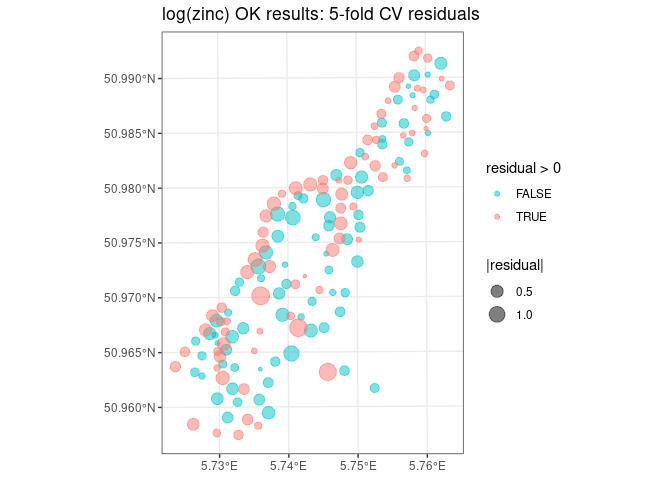
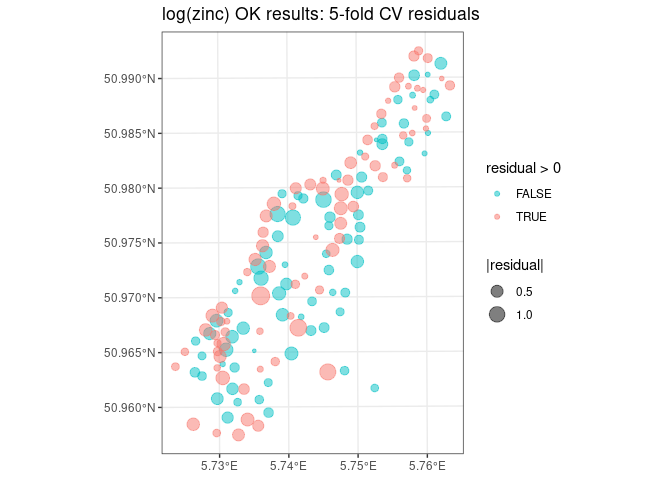
Updated url

diff --git a/demos/geo/Week8LabGeostatistics.md b/demos/geo/Week8LabGeostatistics.md
@@ -622,7 +622,7 @@ meuse.riv <- st_as_sf(data.frame(meuse.riv), coords=1:2, crs=st_crs(meuse)) %>%
 ggplot(data=meuse) + geom_sf() + geom_sf(data=meuse.riv)
 ```
 
-![](Week8LabGeostatistics_files/figure-html/meuse plots-1.png)
+![](Week8LabGeostatistics_files/figure-html/meuse plots-1.png)<!-- -->
 
 ```r
 # The river is too long compared to the study area
@@ -637,7 +637,7 @@ meuse.riv <- st_crop(meuse.riv, st_bbox(st_buffer(meuse, 500)))
 ggplot(data=meuse) + geom_sf() + geom_sf(data=meuse.riv)
 ```
 
-![](Week8LabGeostatistics_files/figure-html/meuse plots-2.png)
+![](Week8LabGeostatistics_files/figure-html/meuse plots-2.png)<!-- -->
 
 ```r
 # Color the zinc data based on the native scale
@@ -652,7 +652,7 @@ ggplot(data=meuse) +
   theme_bw()
 ```
 
-![](Week8LabGeostatistics_files/figure-html/meuse plots-3.png)
+![](Week8LabGeostatistics_files/figure-html/meuse plots-3.png)<!-- -->
 
 ```r
 # Color the zinc data based on the log scale
@@ -665,7 +665,7 @@ ggplot(data=meuse) +
   theme_bw()
 ```
 
-![](Week8LabGeostatistics_files/figure-html/meuse plots-4.png)
+![](Week8LabGeostatistics_files/figure-html/meuse plots-4.png)<!-- -->
 
 ```r
 # Make a bubble plot
@@ -678,7 +678,7 @@ ggplot(data=meuse) +
   theme_bw()
 ```
 
-![](Week8LabGeostatistics_files/figure-html/meuse plots-5.png)
+![](Week8LabGeostatistics_files/figure-html/meuse plots-5.png)<!-- -->
 
 ```r
 # Put these ideas together:  Size and color based on native scale
@@ -690,7 +690,7 @@ ggplot(data=meuse) +
   theme_bw()
 ```
 
-![](Week8LabGeostatistics_files/figure-html/meuse plots-6.png)
+![](Week8LabGeostatistics_files/figure-html/meuse plots-6.png)<!-- -->
 
 ### Estimating variograms
 
@@ -733,21 +733,21 @@ also uploaded to the course Canvas site.
 plot(variogram(log(zinc)~1, meuse, cloud=TRUE))
 ```
 
-![](Week8LabGeostatistics_files/figure-html/meuse empirical variogram-1.png)
+![](Week8LabGeostatistics_files/figure-html/meuse empirical variogram-1.png)<!-- -->
 
 ```r
 # plot binned variogram (the default)
 plot(variogram(log(zinc)~1, meuse))
 ```
 
-![](Week8LabGeostatistics_files/figure-html/meuse empirical variogram-2.png)
+![](Week8LabGeostatistics_files/figure-html/meuse empirical variogram-2.png)<!-- -->
 
 ```r
 # you can also show the number of points in each bin
 plot(variogram(log(zinc)~1, meuse), pl=TRUE)
 ```
 
-![](Week8LabGeostatistics_files/figure-html/meuse empirical variogram-3.png)
+![](Week8LabGeostatistics_files/figure-html/meuse empirical variogram-3.png)<!-- -->
 
 ```r
 # save the variogram cloud 
@@ -769,7 +769,7 @@ ggplot(data=vgm.meuse, aes(x = dist, y = gamma)) +
 ## `geom_smooth()` using method = 'gam' and formula 'y ~ s(x, bs = "cs")'
 ```
 
-![](Week8LabGeostatistics_files/figure-html/meuse empirical variogram-4.png)
+![](Week8LabGeostatistics_files/figure-html/meuse empirical variogram-4.png)<!-- -->
 
 
 #### Modeled variogram
@@ -811,7 +811,7 @@ v.fit
 plot(v, v.fit)
 ```
 
-![](Week8LabGeostatistics_files/figure-html/meuse modeled variogram-1.png)
+![](Week8LabGeostatistics_files/figure-html/meuse modeled variogram-1.png)<!-- -->
 
 ### Kriging
 
@@ -851,7 +851,7 @@ lzn.kr <- krige(log(zinc)~1, meuse, newdata = meuse.grid, model = v.fit)
 pl1 <- plot(lzn.kr["var1.pred"], main = "OK prediction of log(zinc)")
 ```
 
-![](Week8LabGeostatistics_files/figure-html/meuse ordinary kriging-1.png)
+![](Week8LabGeostatistics_files/figure-html/meuse ordinary kriging-1.png)<!-- -->
 
 ```r
 # calculate then plot kriging standard errors
@@ -859,7 +859,7 @@ lzn.kr$se = sqrt(lzn.kr$var1.var)
 pl2 <- plot(lzn.kr["se"], main = "OK prediction error")
 ```
 
-![](Week8LabGeostatistics_files/figure-html/meuse ordinary kriging-2.png)
+![](Week8LabGeostatistics_files/figure-html/meuse ordinary kriging-2.png)<!-- -->
 
 #### Universal kriging (UK)
 
@@ -895,7 +895,7 @@ m.uk
 plot(v.uk, model = m.uk)
 ```
 
-![](Week8LabGeostatistics_files/figure-html/meuse universal kriging-1.png)
+![](Week8LabGeostatistics_files/figure-html/meuse universal kriging-1.png)<!-- -->
 
 ```r
 # fit the universal kriging model, predicting on the meuse.grid
@@ -914,13 +914,13 @@ lzn.kr$se = sqrt(lzn.kr$var1.var)
 pl3 <- plot(lzn.kr["var1.pred"], main = "UK prediction of log-zinc")
 ```
 
-![](Week8LabGeostatistics_files/figure-html/meuse universal kriging-2.png)
+![](Week8LabGeostatistics_files/figure-html/meuse universal kriging-2.png)<!-- -->
 
 ```r
 pl4 <- plot(lzn.kr["se"], main = "UK prediction error")
 ```
 
-![](Week8LabGeostatistics_files/figure-html/meuse universal kriging-3.png)
+![](Week8LabGeostatistics_files/figure-html/meuse universal kriging-3.png)<!-- -->
 
 ### Cross-validating the kriging model using the built-in CV function `krige.cv`
 
@@ -1003,7 +1003,7 @@ meuse.CV5 <- krige.cv2(log(zinc)~1, meuse, model = v.fit, nmax = 40, nfold=5)
 krige.cv.bubble(meuse.CV5,"log(zinc) OK results: 5-fold CV residuals")
 ```
 
-![](Week8LabGeostatistics_files/figure-html/meuse cross-validation-1.png)
+![](Week8LabGeostatistics_files/figure-html/meuse cross-validation-1.png)<!-- -->
 
 ```r
 # ordinary kriging, LOOCV
@@ -1013,7 +1013,7 @@ meuse.CVLOO <- krige.cv2(log(zinc)~1, meuse, model = v.fit, nmax = 40)
 krige.cv.bubble(meuse.CVLOO, "log(zinc) OK results: LOO CV residuals")
 ```
 
-![](Week8LabGeostatistics_files/figure-html/meuse cross-validation-2.png)
+![](Week8LabGeostatistics_files/figure-html/meuse cross-validation-2.png)<!-- -->
 
 ```r
 # universal kriging, 5-fold cross-validation 
@@ -1025,7 +1025,7 @@ meuse.CV5uk <-
 krige.cv.bubble(meuse.CV5uk,"log(zinc) UK on sqrt(dist): 5-fold CV residuals")
 ```
 
-![](Week8LabGeostatistics_files/figure-html/meuse cross-validation-3.png)
+![](Week8LabGeostatistics_files/figure-html/meuse cross-validation-3.png)<!-- -->
 
 ```r
 # universal kriging, LOOCV
@@ -1036,7 +1036,7 @@ meuse.CVLOOuk <- krige.cv2(log(zinc)~sqrt(dist), meuse,
 krige.cv.bubble(meuse.CVLOOuk,"log(zinc) UK on sqrt(dist): LOO CV residuals")
 ```
 
-![](Week8LabGeostatistics_files/figure-html/meuse cross-validation-4.png)
+![](Week8LabGeostatistics_files/figure-html/meuse cross-validation-4.png)<!-- -->
 
 ```r
 # calculate and compare performance statistics across CVs
@@ -1059,9 +1059,9 @@ Table: Summary of kriging cross-validation results for log(zinc).
 
 |Description                 |   RMSE| MSE_based_R2|
 |:---------------------------|------:|------------:|
-|OK: 5-fold CV               | 0.3952|       0.6984|
+|OK: 5-fold CV               | 0.4034|       0.6858|
 |OK: LOO CV                  | 0.3869|       0.7109|
-|UK on sqrt(dist): 5-fold CV | 0.3679|       0.7386|
+|UK on sqrt(dist): 5-fold CV | 0.3887|       0.7083|
 |UK on sqrt(dist): LOO CV    | 0.3829|       0.7169|
 
 
@@ -1255,7 +1255,7 @@ la_grid
 # we do not want to predict there.
 
 # specify url for a zip file for access to a shapefile
-#url <- "https://www.naturalearthdata.com/download/10m/physical/ne_10m_land.zip"
+#url <- "https://www.naturalearthdata.com/http//www.naturalearthdata.com/download/10m/physical/ne_10m_land.zip"
 url <- 'https://www.qgistutorials.com/downloads/ne_10m_land.zip'
 
 # download zip file
@@ -1300,7 +1300,7 @@ land <- suppressWarnings(st_crop(land,st_bbox(la_grid)))
 ggplot(land) + geom_sf(aes(fill=featurecla))
 ```
 
-![](Week8LabGeostatistics_files/figure-html/convert LA grid to sf-1.png)
+![](Week8LabGeostatistics_files/figure-html/convert LA grid to sf-1.png)<!-- -->
 
 ```r
 # Remove water points from la_grid
@@ -1329,7 +1329,7 @@ ggplot(data=fall) +
   theme_bw()
 ```
 
-![](Week8LabGeostatistics_files/figure-html/plot fall snapshot-1.png)
+![](Week8LabGeostatistics_files/figure-html/plot fall snapshot-1.png)<!-- -->
 
 ```r
 # we show a similar color and size varying bubble plot of the data
@@ -1340,7 +1340,7 @@ ggplot(data=fall) +
   theme_bw()
 ```
 
-![](Week8LabGeostatistics_files/figure-html/plot fall snapshot-2.png)
+![](Week8LabGeostatistics_files/figure-html/plot fall snapshot-2.png)<!-- -->
 
 ### Mapping the data
 
@@ -1390,7 +1390,7 @@ g <- ggmap(map, darken = c(0.5, "white")) + theme_void()
 g + ggtitle("Sample Map of Los Angeles for \n the area covered by the snapshot data")
 ```
 
-![](Week8LabGeostatistics_files/figure-html/LA Stamen map-1.png)
+![](Week8LabGeostatistics_files/figure-html/LA Stamen map-1.png)<!-- -->
 
 ```r
 # Add snapshot locations to the map with colors for values
@@ -1407,7 +1407,7 @@ g + geom_point(data=fall,
     ggtitle("Map of Los Angeles \n with the fall snapshot data")
 ```
 
-![](Week8LabGeostatistics_files/figure-html/LA Stamen map-2.png)
+![](Week8LabGeostatistics_files/figure-html/LA Stamen map-2.png)<!-- -->
 
 ```r
 # NOx on log scale
@@ -1420,7 +1420,7 @@ g + geom_point(data=fall,
   theme_bw()
 ```
 
-![](Week8LabGeostatistics_files/figure-html/LA Stamen map-3.png)
+![](Week8LabGeostatistics_files/figure-html/LA Stamen map-3.png)<!-- -->
 
 Note, in comparing the above map to the one displayed in Figure 2b of Mercer, a
 few observations are in order:
@@ -1447,7 +1447,7 @@ g + geom_point(data=la_grid,aes(x = st_coordinates(la_grid)[,'X'],
   theme_bw()
 ```
 
-![](Week8LabGeostatistics_files/figure-html/plot the grid on the map-1.png)
+![](Week8LabGeostatistics_files/figure-html/plot the grid on the map-1.png)<!-- -->
 
 
 ### Estimation using the snapshot data: Kriging using the common model
@@ -1494,7 +1494,7 @@ vf.fit
 plot(vf, vf.fit)
 ```
 
-![](Week8LabGeostatistics_files/figure-html/fall estimate variogram-1.png)
+![](Week8LabGeostatistics_files/figure-html/fall estimate variogram-1.png)<!-- -->
 
 ```r
 # now repeat for the UK model
@@ -1525,7 +1525,7 @@ vfc.fit
 plot(vfc, vfc.fit)
 ```
 
-![](Week8LabGeostatistics_files/figure-html/fall estimate variogram-2.png)
+![](Week8LabGeostatistics_files/figure-html/fall estimate variogram-2.png)<!-- -->
 
 ```r
 # Mercer used an exponential variogram, so refit the variogram using that:
@@ -1548,7 +1548,7 @@ vfc.fit
 plot(vfc, vfc.fit)
 ```
 
-![](Week8LabGeostatistics_files/figure-html/fall estimate variogram-3.png)
+![](Week8LabGeostatistics_files/figure-html/fall estimate variogram-3.png)<!-- -->
 
 Observe the exponential and spherical fits are almost indistinguishable
 visually.  They are also different from the Mercer paper.  This may be due to
@@ -1586,14 +1586,14 @@ fall.CVcluster.uk <- krige.cv2(ln_nox ~ D2A1 + A1_50 + A23_400 + Pop_5000 + D2C 
 krige.cv.bubble(st_transform(fall.CVcluster.ok,latlong_proj),'ln(NOx) OK: clusterwise CV residuals')
 ```
 
-![](Week8LabGeostatistics_files/figure-html/krige.cv in LA-1.png)
+![](Week8LabGeostatistics_files/figure-html/krige.cv in LA-1.png)<!-- -->
 
 ```r
 # bubble plot of UK residuals
 krige.cv.bubble(st_transform(fall.CVcluster.uk,latlong_proj),'ln(NOx) UK: clusterwise CV residuals')
 ```
 
-![](Week8LabGeostatistics_files/figure-html/krige.cv in LA-2.png)
+![](Week8LabGeostatistics_files/figure-html/krige.cv in LA-2.png)<!-- -->
 
 ```r
 # calculate and compile CV stats
@@ -1784,7 +1784,7 @@ g + geom_point(data=new_grid,aes(x = st_coordinates(new_grid)[,'X'],
     ggtitle("Map of Los Angeles \n with fall UK predictions overlaid as points")
 ```
 
-![](Week8LabGeostatistics_files/figure-html/plot the grid predictions on the map-1.png)
+![](Week8LabGeostatistics_files/figure-html/plot the grid predictions on the map-1.png)<!-- -->
 
 
 Now we show an example plotting smooth gridded predictions on the map with polygons.  The smoothing smudges the data back over the water.
@@ -1812,7 +1812,7 @@ g + stat_contour(aes(x = x, y = y, z = z, fill = ..level..), alpha = 0.07,
     ggtitle("Map of Los Angeles \n with fall UK predictions overlaid, \n smoothed predictions with interpolation")
 ```
 
-![](Week8LabGeostatistics_files/figure-html/plot smooth grid predictions on the map with polygons-1.png)
+![](Week8LabGeostatistics_files/figure-html/plot smooth grid predictions on the map with polygons-1.png)<!-- -->
 
 
 #### Ordinary kriging using the residuals from a LUR
@@ -2409,7 +2409,7 @@ la_grid
 # we do not want to predict there.
 
 # specify url for a zip file for access to a shapefile
-#url <- "https://www.naturalearthdata.com/download/10m/physical/ne_10m_land.zip"
+#url <- "https://www.naturalearthdata.com/http//www.naturalearthdata.com/download/10m/physical/ne_10m_land.zip"
 url <- 'https://www.qgistutorials.com/downloads/ne_10m_land.zip'
 
 # download zip file
@@ -2743,7 +2743,7 @@ lapply(c(lsf.str()), getAnywhere)
 ##   ggtitle(plot_title) +
 ##   theme_bw()
 ## }
-## <bytecode: 0x556ca5cb5a58>
+## <bytecode: 0x5599ee4fc058>
 ## 
 ## [[2]]
 ## A single object matching 'krige.cv.stats' was found
@@ -2768,7 +2768,7 @@ lapply(c(lsf.str()), getAnywhere)
 ##          RMSE = round(sqrt(MSE_pred), 4), 
 ##          MSE_based_R2 = round(max(1 - MSE_pred/MSE_obs, 0), 4) )
 ## }
-## <bytecode: 0x556ca933b890>
+## <bytecode: 0x5599f0cab1b0>
 ## 
 ## [[3]]
 ## A single object matching 'krige.cv2' was found
@@ -2787,7 +2787,7 @@ lapply(c(lsf.str()), getAnywhere)
 ##   if (is.na(st_crs(krige.cv1))) {st_crs(krige.cv1) <- st_crs(locations)}
 ##   return(krige.cv1)
 ## }
-## <bytecode: 0x556cacc04a08>
+## <bytecode: 0x5599f5455d98>
 ```
 
 
